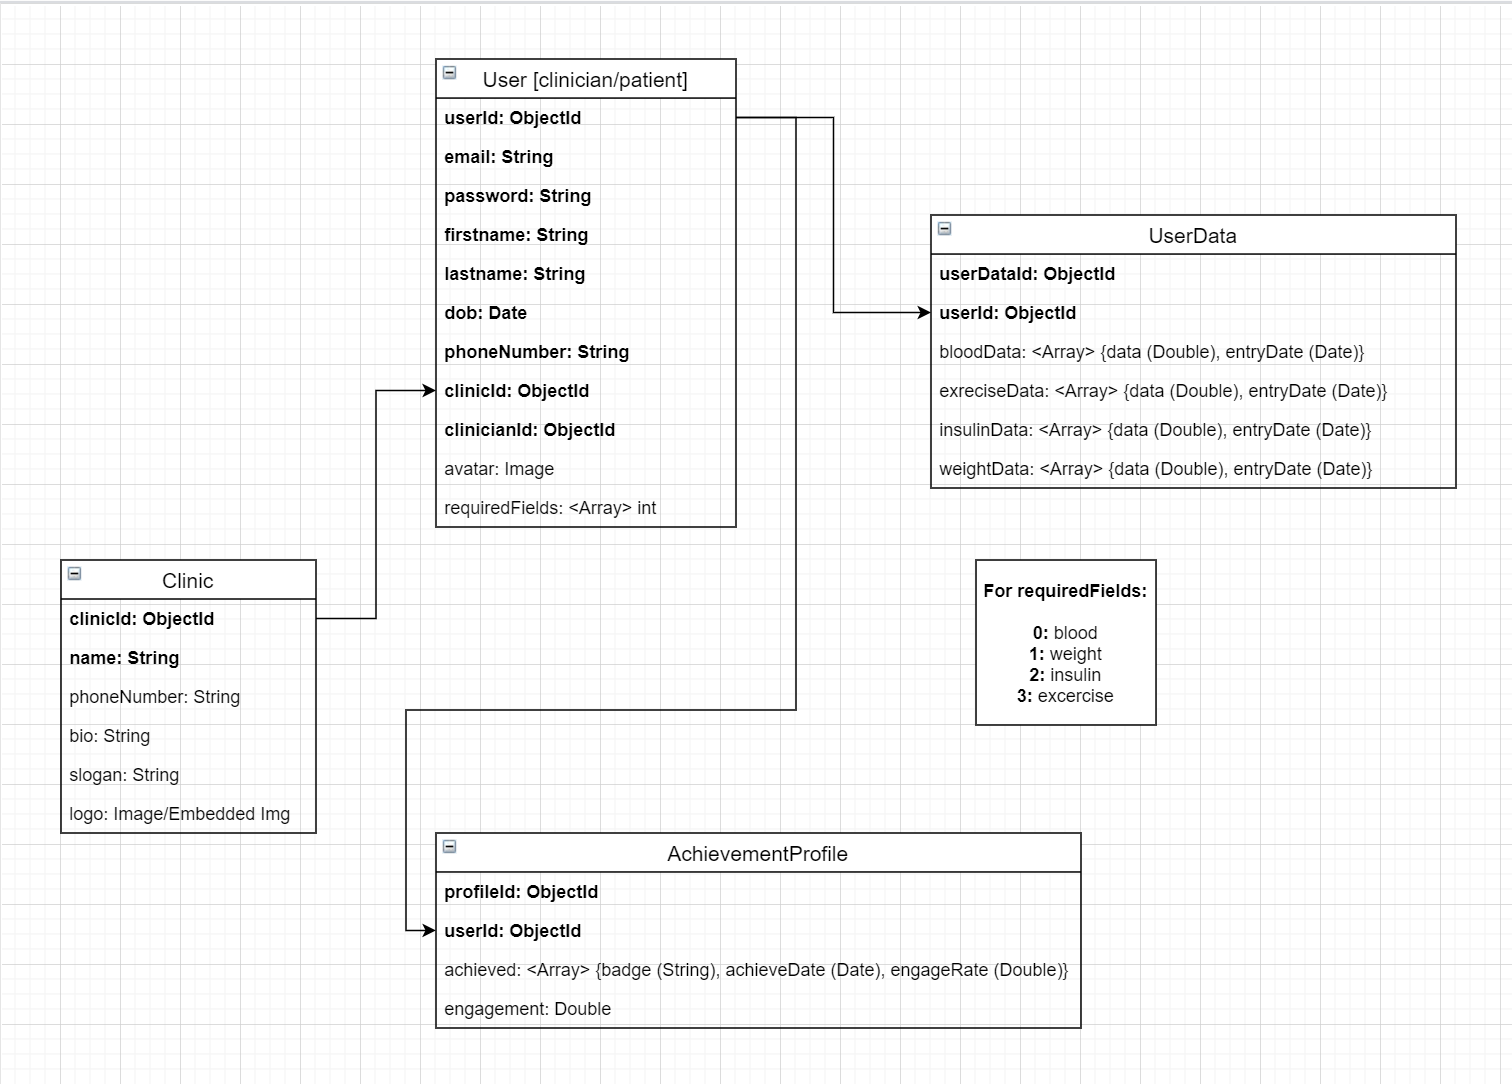
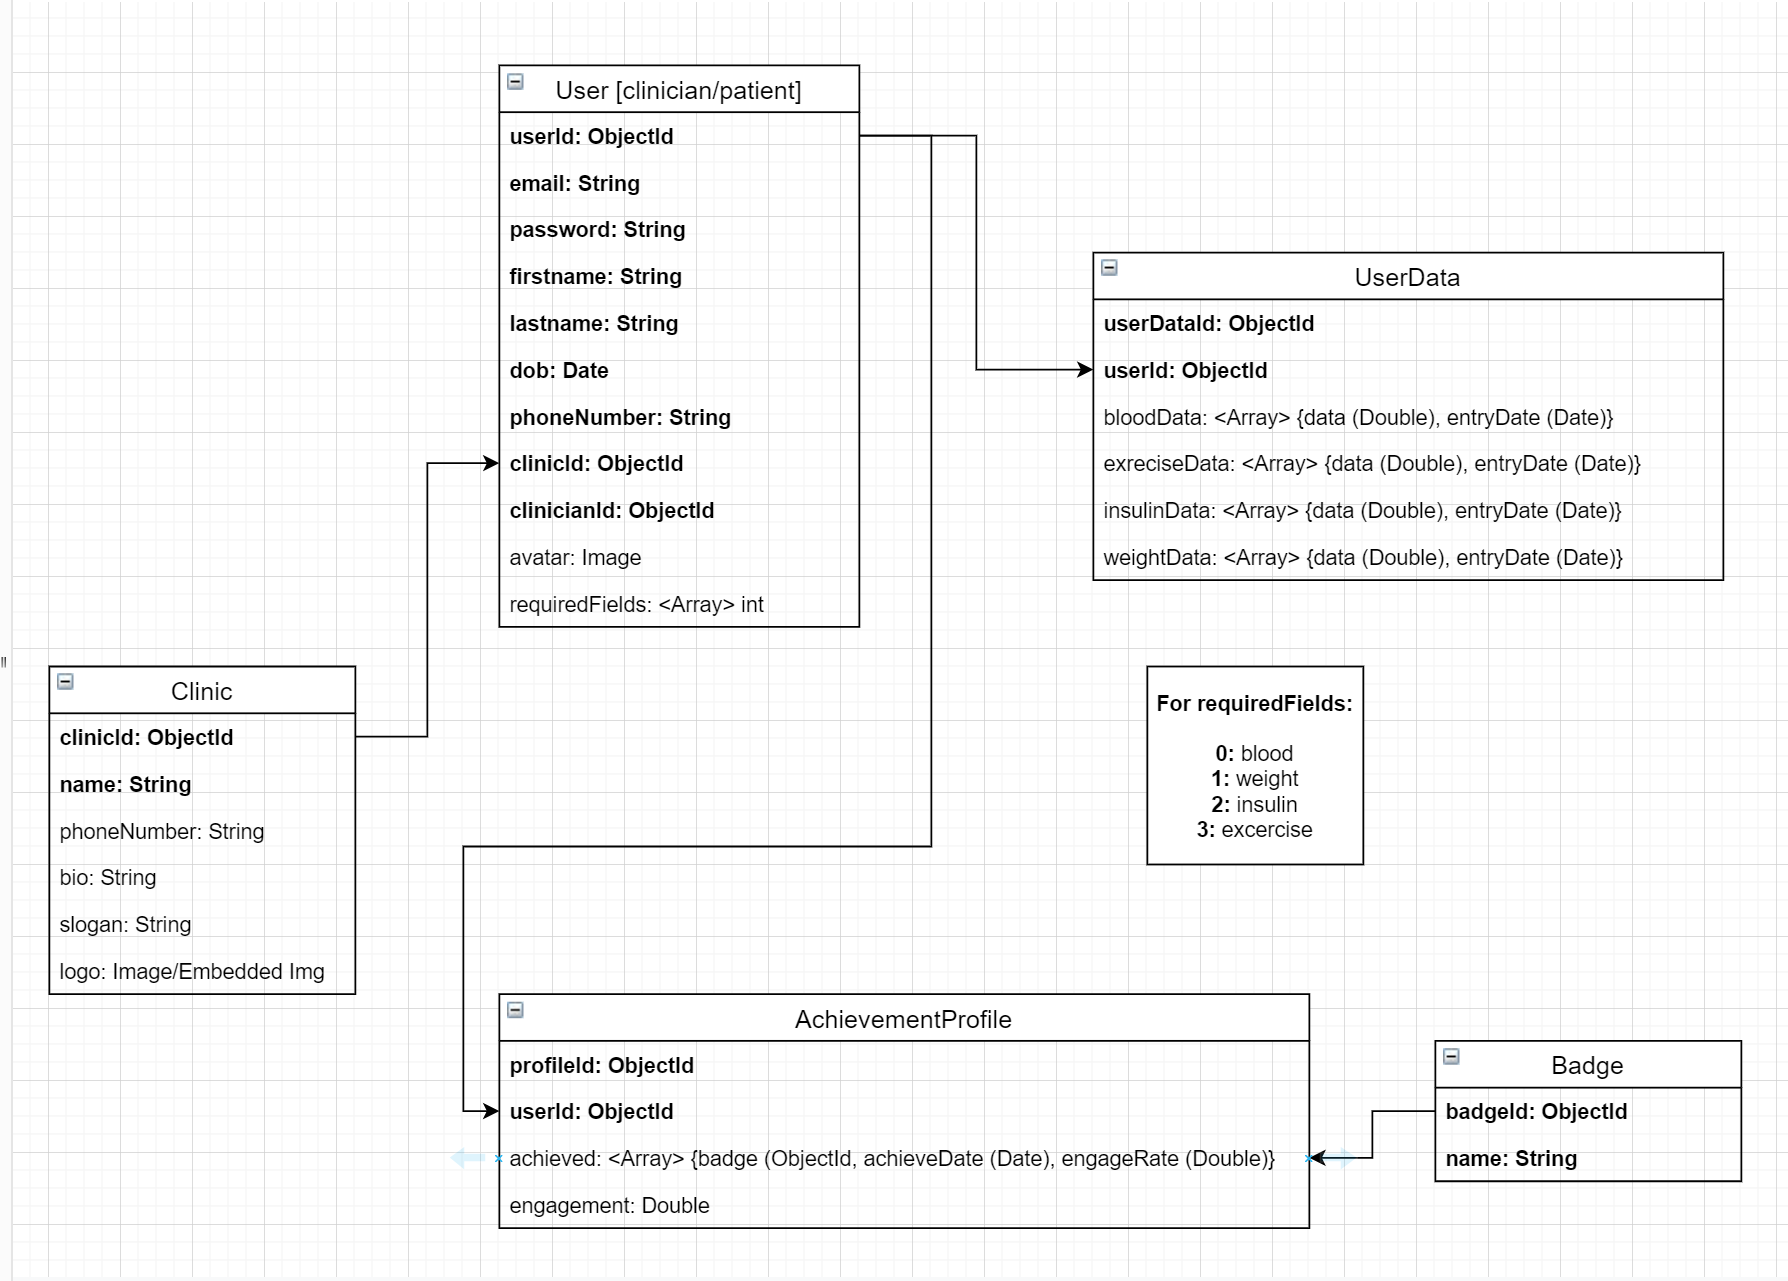
Init schemas based on draft structure

diff --git a/models/userData.js b/models/userData.js
@@ -1,0 +1,45 @@
+const mongoose = require('mongoose');
+const bcrypt = require('bcrypt');
+
+const UserDataSchema = new mongoose.Schema(
+  {
+    userId: {
+      type: mongoose.Schema.Types.ObjectId,
+      required: true,
+    },
+    bloodData: [{
+      data: {
+        type: Number,
+      },
+      inputAt: {
+        type: Date,
+      }
+    }],
+    exerciseData: [{
+      data: {
+        type: Number,
+      },
+      inputAt: {
+        type: Date,
+      }
+    }],
+    insulinData: [{
+      data: {
+        type: Number,
+      },
+      inputAt: {
+        type: Date,
+      }
+    }],
+    weightData: [{
+      data: {
+        type: Number,
+      },
+      inputAt: {
+        type: Date,
+      }
+    }],
+  }
+);
+
+module.exports = mongoose.model('UserData', UserDataSchema);

diff --git a/models/achievement.js b/models/achievement.js
@@ -1,0 +1,27 @@
+const mongoose = require('mongoose');
+const bcrypt = require('bcrypt');
+
+const AchivementSchema = new mongoose.Schema(
+  {
+    userId: {
+      type: mongoose.Schema.Types.ObjectId,
+      required: true,
+    },
+    achived: [{
+      badge:{
+        type: mongoose.Schema.Types.ObjectId,
+      },
+      onDate: {
+        type: Date,
+      },
+      engageRate:{
+        type: Number,
+      }
+    }],
+    totalEngagement: {
+      type: Number,
+    }
+  }
+);
+
+module.exports = mongoose.model('Achivement', AchivementSchema);

diff --git a/models/clinic.js b/models/clinic.js
@@ -1,0 +1,25 @@
+const mongoose = require('mongoose');
+const bcrypt = require('bcrypt');
+
+const ClinicSchema = new mongoose.Schema(
+  {
+    name: {
+      type: String,
+      required: true,
+    },
+    phoneNo: {
+      type: String,
+    },
+    bio: {
+      type: String,     
+    },
+    slogan: {
+      type: String,      
+    },
+    // logo: {
+    //   type: String,      
+    // },
+  }
+);
+
+module.exports = mongoose.model('Clinic', ClinicSchema);

diff --git a/models/badge.js b/models/badge.js
@@ -1,0 +1,10 @@
+const mongoose = require('mongoose');
+const bcrypt = require('bcrypt');
+
+const BadgeSchema = new mongoose.Schema({
+  name:{
+    type: String,
+  },
+});
+
+module.exports = mongoose.model('Badge', BadgeSchema);

diff --git a/models/user.js b/models/user.js
@@ -29,7 +29,6 @@ const UserSchema = new mongoose.Schema(
     },
     clinicId: {
       type: mongoose.Schema.Types.ObjectId,
-      required: true,
     },
     clinicianId: {
       type: mongoose.Schema.Types.ObjectId,
